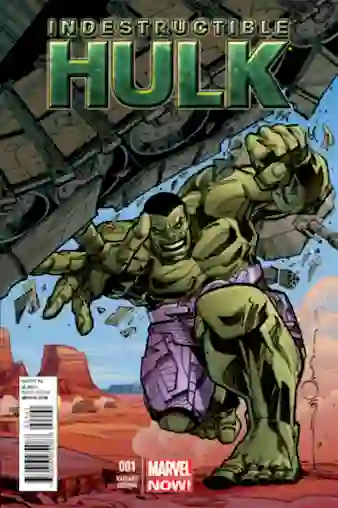
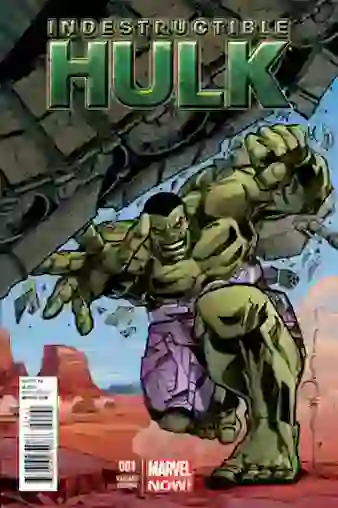
more image optimizations, more specific 4* rewards

diff --git a/utils/utils.js b/utils/utils.js
@@ -128,51 +128,51 @@ export function getThreeStatus(level, feedee) {
   } else if (level === 265 || level === 256) {
     return '1 level to: Latest Legends token';
   } else if (level < 265 && level >= 261) {
-    return `${265 - level} level(s) to: ${feedees[0]} shards`;
+    return `${265 - level} level(s) to: 200 ${feedees[0]} shards`;
   } else if (level === 260) {
     return '1 level to: 15 Command Points';
   } else if (level === 259 || level === 219) {
-    return `1 level to: ${feedees[1]} shards`;
+    return `1 level to: 100 ${feedees[1]} shards`;
   } else if (level < 258 && level >= 255) {
-    return `${258 - level} level(s) to: ${feedees[0]} shards`;
+    return `${258 - level} level(s) to: 100 ${feedees[0]} shards`;
   } else if (level < 255 && level >= 250) {
-    return `${255 - level} level(s) to: ${feedees[0]} shards`;
+    return `${255 - level} level(s) to: 100 ${feedees[0]} shards`;
   } else if (level < 250 && level >= 247) {
-    return `${250 - level} level(s) to: ${feedees[1]} shards`;
+    return `${250 - level} level(s) to: 95 ${feedees[1]} shards`;
   } else if (level < 247 && level >= 243) {
     return `${247 - level} level(s) to: 8 Command Points`;
   } else if (level < 243 && level >= 240) {
     return `${243 - level} level(s) to: Mighty Recruit Token`;
   } else if (level === 239) {
-    return `1 level to: ${feedees[1]} shards`;
+    return `1 level to: 85 ${feedees[1]} shards`;
   } else if (level < 239 && level >= 235) {
     return `${239 - level} level(s) to: Latest Legends Token`;
   } else if (level < 235 && level >= 230) {
     return `${239 - level} level(s) to: 5 Command Points`;
   } else if (level < 230 && level >= 227) {
-    return `${230 - level} level(s) to: ${feedees[1]} shards`;
+    return `${230 - level} level(s) to: 75 ${feedees[1]} shards`;
   } else if (level < 227 && level >= 223) {
     return `${227 - level} level(s) to: Latest Legends Token`;
   } else if (level < 223 && level >= 220) {
-    return `${223 - level} level(s) to: ${feedees[0]} shards`;
+    return `${223 - level} level(s) to: 200 ${feedees[0]} shards`;
   } else if (level < 219 && level >= 215) {
-    return `${219 - level} level(s) to: ${feedees[0]} shards`;
+    return `${219 - level} level(s) to: 100 ${feedees[0]} shards`;
   } else if (level < 215 && level >= 210) {
-    return `${215 - level} level(s) to: ${feedees[0]} shards`;
+    return `${215 - level} level(s) to: 100 ${feedees[0]} shards`;
   } else if (level < 210 && level >= 207) {
-    return `${210 - level} level(s) to: ${feedees[1]} shards`;
+    return `${210 - level} level(s) to: 55 ${feedees[1]} shards`;
   } else if (level < 207 && level >= 200) {
     return `${207 - level} level(s) to: Mighty Recruit Token`;
   } else if (level < 200 && level >= 190) {
-    return `${200 - level} level(s) to: ${feedees[1]} shards`;
+    return `${200 - level} level(s) to: 45 ${feedees[1]} shards`;
   } else if (level < 190 && level >= 183) {
-    return `${190 - level} level(s) to: ${feedees[1]} shards`;
+    return `${190 - level} level(s) to: 35 ${feedees[1]} shards`;
   } else if (level < 183 && level >= 180) {
     return `${183 - level} level(s) to: ${feedees[0]} shards`;
   } else if (level < 180 && level >= 170) {
-    return `${180 - level} level(s) to: ${feedees[1]} shards`;
+    return `${180 - level} level(s) to: 25 ${feedees[1]} shards`;
   } else if (level < 170 && level >= 167) {
-    return `${170 - level} level(s) to: ${feedees[1]} shards`;
+    return `${170 - level} level(s) to: 15 ${feedees[1]} shards`;
   } else {
     return `${167 - level} level(s) to: Latest Legends Token`;
   }
@@ -192,15 +192,15 @@ export function getFourStatus(level, feedee) {
   } else if (level < 295 && level >= 290) {
     return (
       `${295 - level} level(s) to: ` +
-      (noFeedee ? '100 Hero points' : `${feedee} shards`)
+      (noFeedee ? '100 Hero points' : `100 ${feedee} shards`)
     );
   } else if (level < 298 && level >= 295) {
     return (
       `${298 - level} level(s) to: ` +
-      (noFeedee ? '4 Command Points' : `${feedee} shards`)
+      (noFeedee ? '4 Command Points' : `150 ${feedee} shards`)
     );
   } else if (level < 300 && level >= 298) {
-    return `${300 - level} level(s) to: ${feedee} shards`;
+    return `${300 - level} level(s) to: 250 ${feedee} shards`;
   } else if (level < 310 && level >= 300) {
     return (
       `${310 - level} level(s) to: ` +
@@ -209,61 +209,61 @@ export function getFourStatus(level, feedee) {
   } else if (level < 315 && level >= 310) {
     return (
       `${315 - level} level(s) to: ` +
-      (noFeedee ? '100 Hero points' : `${feedee} shards`)
+      (noFeedee ? '100 Hero points' : `100 ${feedee} shards`)
     );
   } else if (level < 318 && level >= 315) {
     return (
       `${318 - level} level(s) to: ` +
-      (noFeedee ? '5 Command Points' : `${feedee} shards`)
+      (noFeedee ? '5 Command Points' : `150 ${feedee} shards`)
     );
   } else if (level < 320 && level >= 318) {
-    return `${320 - level} level(s) to: ${feedee} shards`;
+    return `${320 - level} level(s) to: 250 ${feedee} shards`;
   } else if (level < 330 && level >= 320) {
     return `${330 - level} level(s) to: Latest Legends Token`;
   } else if (level < 335 && level >= 330) {
     return (
       `${335 - level} level(s) to: ` +
-      (noFeedee ? '100 Hero points' : `${feedee} shards`)
+      (noFeedee ? '100 Hero points' : `100 ${feedee} shards`)
     );
   } else if (level < 338 && level >= 335) {
     return (
       `${338 - level} level(s) to: ` +
-      (noFeedee ? '7 Command Points' : `${feedee} shards`)
+      (noFeedee ? '7 Command Points' : `150 ${feedee} shards`)
     );
   } else if (level < 340 && level >= 338) {
     return (
       `${340 - level} level(s) to: ` +
-      (noFeedee ? 'Latest Legends Token' : `${feedee} shards`)
+      (noFeedee ? 'Latest Legends Token' : `250 ${feedee} shards`)
     );
   } else if (level < 344 && level >= 338) {
     return (
       `${344 - level} level(s) to: ` +
-      (noFeedee ? '7 Command Points' : `${feedee} shards`)
+      (noFeedee ? '7 Command Points' : `100 ${feedee} shards`)
     );
   } else if (level < 347 && level >= 344) {
     return (
       `${347 - level} level(s) to: ` +
-      (noFeedee ? '100 Hero points' : `${feedee} shards`)
+      (noFeedee ? '100 Hero points' : `150 ${feedee} shards`)
     );
   } else if (level < 350 && level >= 347) {
     return (
       `${350 - level} level(s) to: ` +
-      (noFeedee ? 'Latest Legends Token' : `${feedee} shards`)
+      (noFeedee ? 'Latest Legends Token' : `250 ${feedee} shards`)
     );
   } else if (level < 355 && level >= 350) {
     return (
       `${355 - level} level(s) to: ` +
-      (noFeedee ? '250 Hero points' : `${feedee} shards`)
+      (noFeedee ? '250 Hero points' : `100 ${feedee} shards`)
     );
   } else if (level < 358 && level >= 355) {
     return (
       `${358 - level} level(s) to: ` +
-      (noFeedee ? '8 Command Points' : `${feedee} shards`)
+      (noFeedee ? '8 Command Points' : `150 ${feedee} shards`)
     );
   } else if (level < 360 && level >= 358) {
     return (
       `${360 - level} level(s) to: ` +
-      (noFeedee ? 'Latest Legends Token' : `${feedee} shards`)
+      (noFeedee ? 'Latest Legends Token' : `250 ${feedee} shards`)
     );
   } else if (level < 362 && level >= 360) {
     return `${362 - level} level(s) to: 10 Command Points`;
@@ -278,6 +278,7 @@ export function getFourStatus(level, feedee) {
   }
 }
 
+// TODO: The five star major rewards pattern repeats, find a way to detect that pattern
 export function getFiveStatus(level) {
   if (level < 451) {
     return `${451 - level} level(s) to Latest Legends Token`;
@@ -291,10 +292,15 @@ export function getFiveStatus(level) {
     return `${459 - level} level(s) to Latest Legends Token`;
   } else if (level < 461 && level >= 459) {
     return `${461 - level} level(s) to 25 Command Points`;
+  } else if (level < 461 && level >= 461) {
+    return `${463 - level} level(s) to Latest Legends Token`;
+  } else if (level < 465 && level >= 463) {
+    return `${465 - level} level(s) to 25 Command Points`;
+  } else if (level < 467 && level >= 465) {
+    return `${467 - level} level(s) to Latest Legends Token`;
   } else {
     return 'Further 5* rewards forthcoming';
   }
-
 }
 
 // If both row and column index are zero, return zero

diff --git a/components/Card.js b/components/Card.js
@@ -171,7 +171,7 @@ const CharCard = ({ character, characters, user }) => {
           autoFocus
           style={{ marginBottom: '1rem' }}
           type="number"
-          id="shards"
+          id={name + "shards"}
           name="shards"
           value={shardCount}
           min="0"
